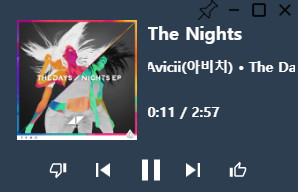
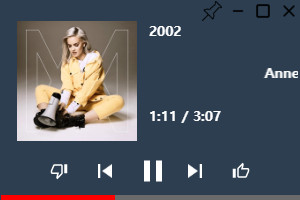
Added progress bar

diff --git a/index.js b/index.js
@@ -95,7 +95,8 @@ function createWindow() {
       const nextButton=document.querySelector("#left-controls > div > paper-icon-button.next-button.style-scope.ytmusic-player-bar");
       const thumbUp=document.querySelector("#like-button-renderer > paper-icon-button.like.style-scope.ytmusic-like-button-renderer");
       const thumbDown=document.querySelector("#like-button-renderer > paper-icon-button.dislike.style-scope.ytmusic-like-button-renderer");
-      const time=document.querySelector("#left-controls > span");      
+      const time=document.querySelector("#left-controls > span");
+      const progress=document.querySelector("#progress-bar");      
     `);
   });
 
@@ -178,7 +179,7 @@ function createWindow() {
 
   // mainWindow.webContents.openDevTools({ mode: "detach" });
   miniPlayer.webContents.openDevTools({ mode: "detach" });
-  // view.webContents.openDevTools({ mode: "detach" });
+  view.webContents.openDevTools({ mode: "detach" });
 }
 
 app.on("ready", function() {

diff --git a/template/mini/index.js b/template/mini/index.js
@@ -13,6 +13,8 @@ const thumbDown = document.getElementsByClassName("down")[0];
 
 const playImg = document.getElementsByClassName("play")[0];
 
+const bar = document.getElementById("bar");
+
 function changePlayState(isPlay) {
   if (isPlay) {
     playImg.src = playImg.src.replace("pause", "start");
@@ -82,11 +84,13 @@ function maxButton() {
 }
 
 ipc.on("info", function(_, info) {
-  title.textContent = info.song;
+  title.textContent = info.song + " - YouTube Music";
   img.src = info.src;
   song.textContent = info.song;
   author.textContent = info.author;
   time.textContent = info.time;
+  bar.style.width = info.progress + "%";
+
   if (info.like === "true") {
     thumbUp.src = thumbUp.src.replace("outline", "filled");
     thumbUp.classList.add("check");

diff --git a/src/Components/GetInfo.js b/src/Components/GetInfo.js
@@ -6,6 +6,7 @@ function GetInfo(webcontents) {
             info.author=document.querySelector("#layout > ytmusic-player-bar > div.middle-controls.style-scope.ytmusic-player-bar > div.content-info-wrapper.style-scope.ytmusic-player-bar > span > span.subtitle.style-scope.ytmusic-player-bar > yt-formatted-string").textContent;
             info.like=thumbUp.getAttribute("aria-pressed");
             info.time=time.textContent;
+            info.progress=Number(progress.getAttribute("aria-valuenow"))/Number(progress.getAttribute("aria-valuemax")) * 100;
             ipcRenderer.send("info",info);
         `
   );

diff --git a/template/mini/index.css b/template/mini/index.css
@@ -1,6 +1,6 @@
 html {
   height: 98%;
-  margin: 3px;
+  margin: 1px;
 }
 body {
   background-color: #2c3e50;
@@ -58,11 +58,14 @@ body {
 
 #song {
   margin: 0px;
-  font-size: 18px;
 }
 
 #author {
   white-space: nowrap;
+}
+
+#time {
+  margin: 0;
 }
 
 .ControlDiv {
@@ -110,4 +113,19 @@ body {
 
 .thumb {
   width: 18px;
+}
+
+#progress {
+  width: 100%;
+  height: 5px;
+  bottom: 0;
+  position: absolute;
+  background-color: #6a6a6a;
+  margin: 0;
+}
+
+#bar {
+  background-color: #ff0000;
+  width: 20px;
+  height: 100%;
 }

diff --git a/template/mini/index.html b/template/mini/index.html
@@ -60,6 +60,9 @@
         />
       </button>
     </div>
+    <div id="progress">
+      <div id="bar"></div>
+    </div>
     <script src="index.js"></script>
     <script>
       document.getElementsByClassName("pin")[0].onclick = pinButton;

diff --git a/README.md b/README.md
@@ -28,11 +28,13 @@
 ### Miniplayer
 
 <img title="MiniPlayer" src='assets/miniplayer.jpg'>
+
 ### ToDo
 
 - [x] Tray icon
 - [x] Background music play
 - [x] mini player
 - [x] add thumb up, down on miniplayer
-- [x] add playing time
+- [x] add playing time on miniplayer
+- [x] add progress bar on miniplayer
 - [ ] add volume slider
